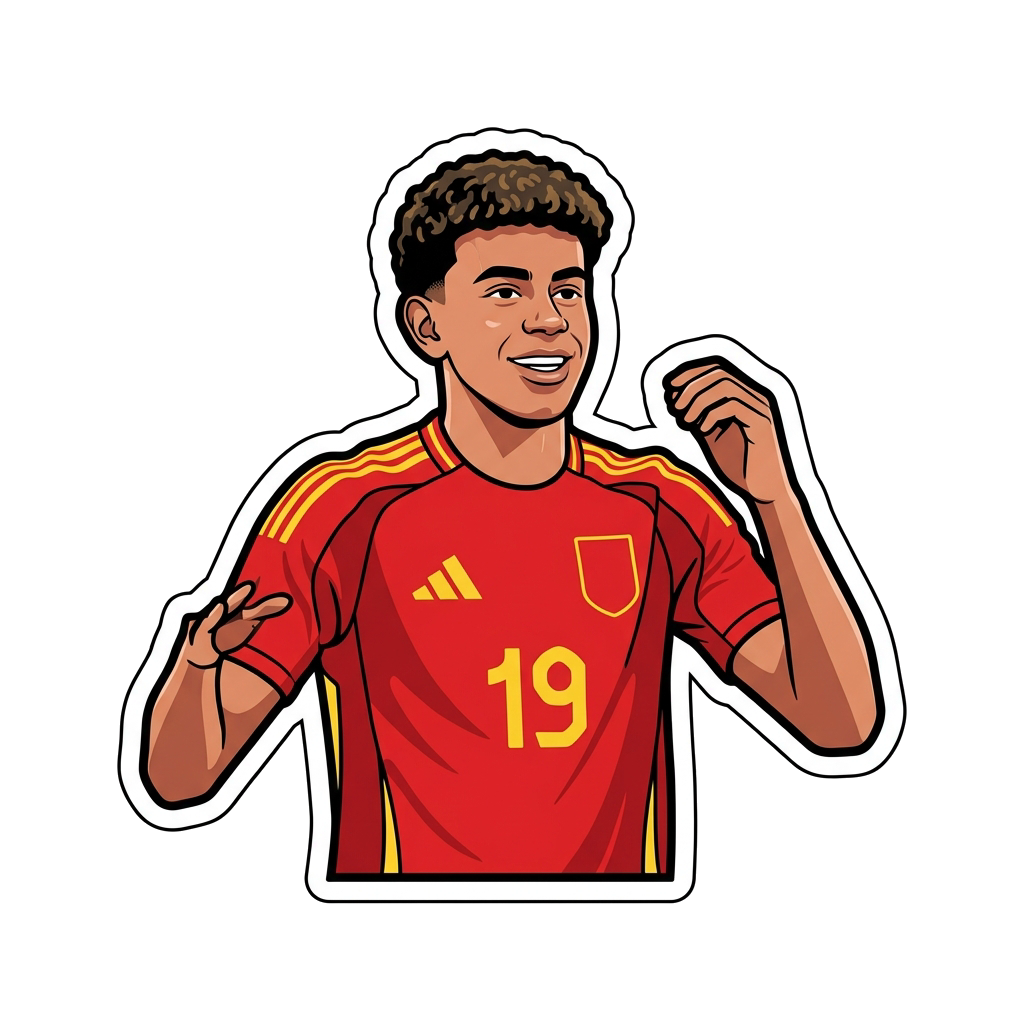
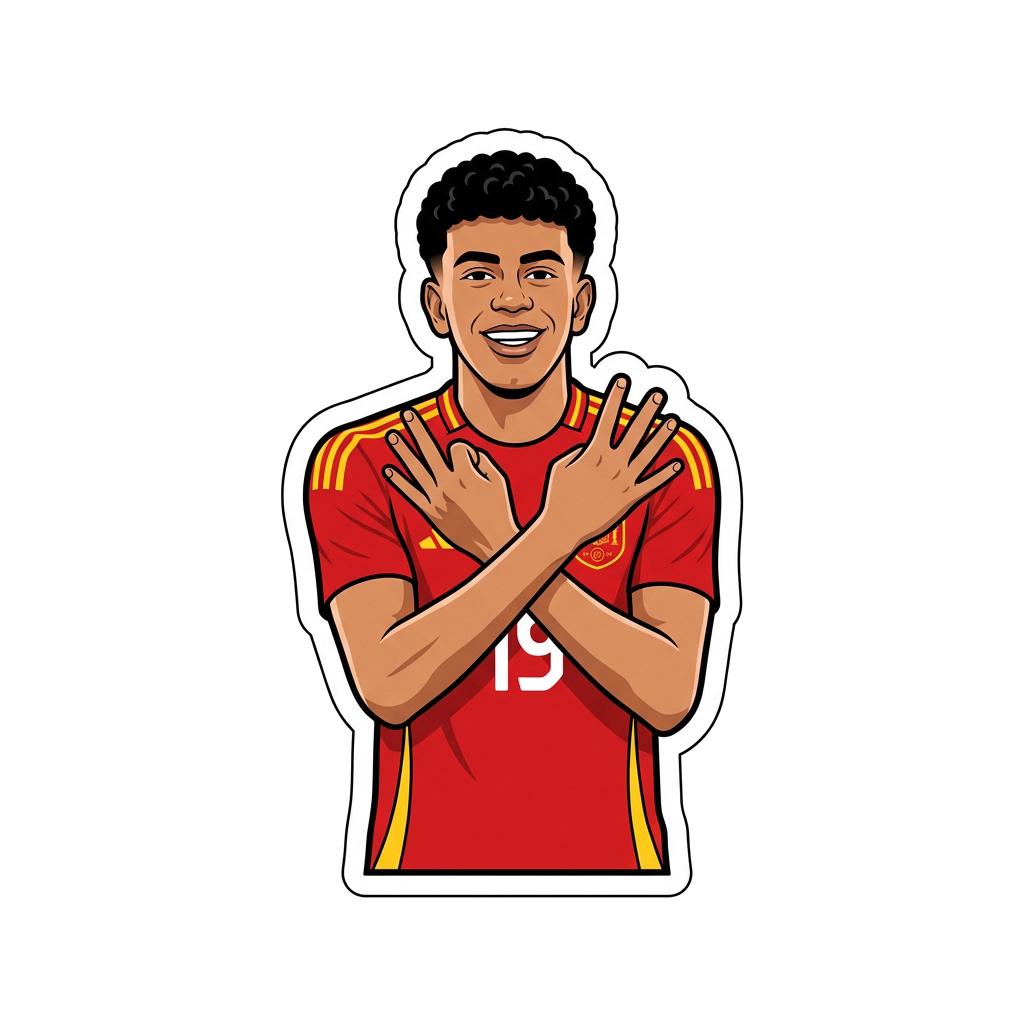
feat(graphics): regenerate Lamine Yamal with margins and Cristiano Ronaldo premium edition with chiseled Siuu celebration

Changed region(s): [[0.0938, 0.125, 0.9062, 0.9062]]

diff --git a/removeBg.js b/removeBg.js
@@ -89,7 +89,8 @@ const artifactsDir = '/Users/macbookpro/.gemini/antigravity-cli/brain/d00ccc55-a
 const publicDir = '/Users/macbookpro/Documents/Jonas/almanaque-copa/public/images';
 
 const files = [
-  { in: `${artifactsDir}/lukaku_raw_1779880501917.png`, out: `${publicDir}/players/lukaku.png` }
+  { in: `${artifactsDir}/lamine_new_raw_1779885777590.png`, out: `${publicDir}/players/lamine-yamal.png` },
+  { in: `${artifactsDir}/cr7_premium_raw_1779885824612.png`, out: `${publicDir}/players/cristiano-ronaldo.png` }
 ];
 
 async function run() {
